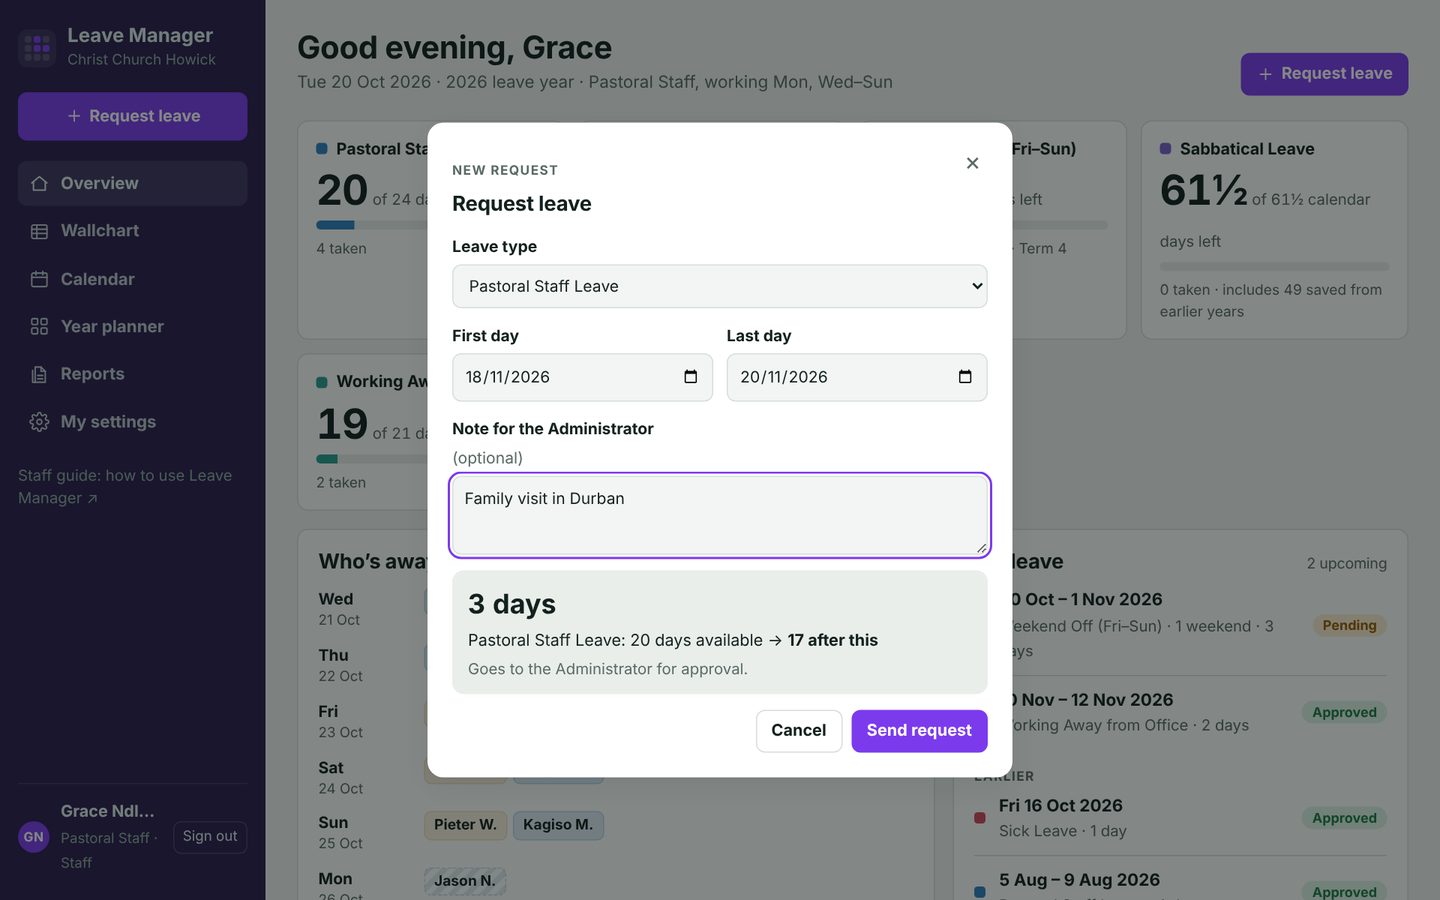
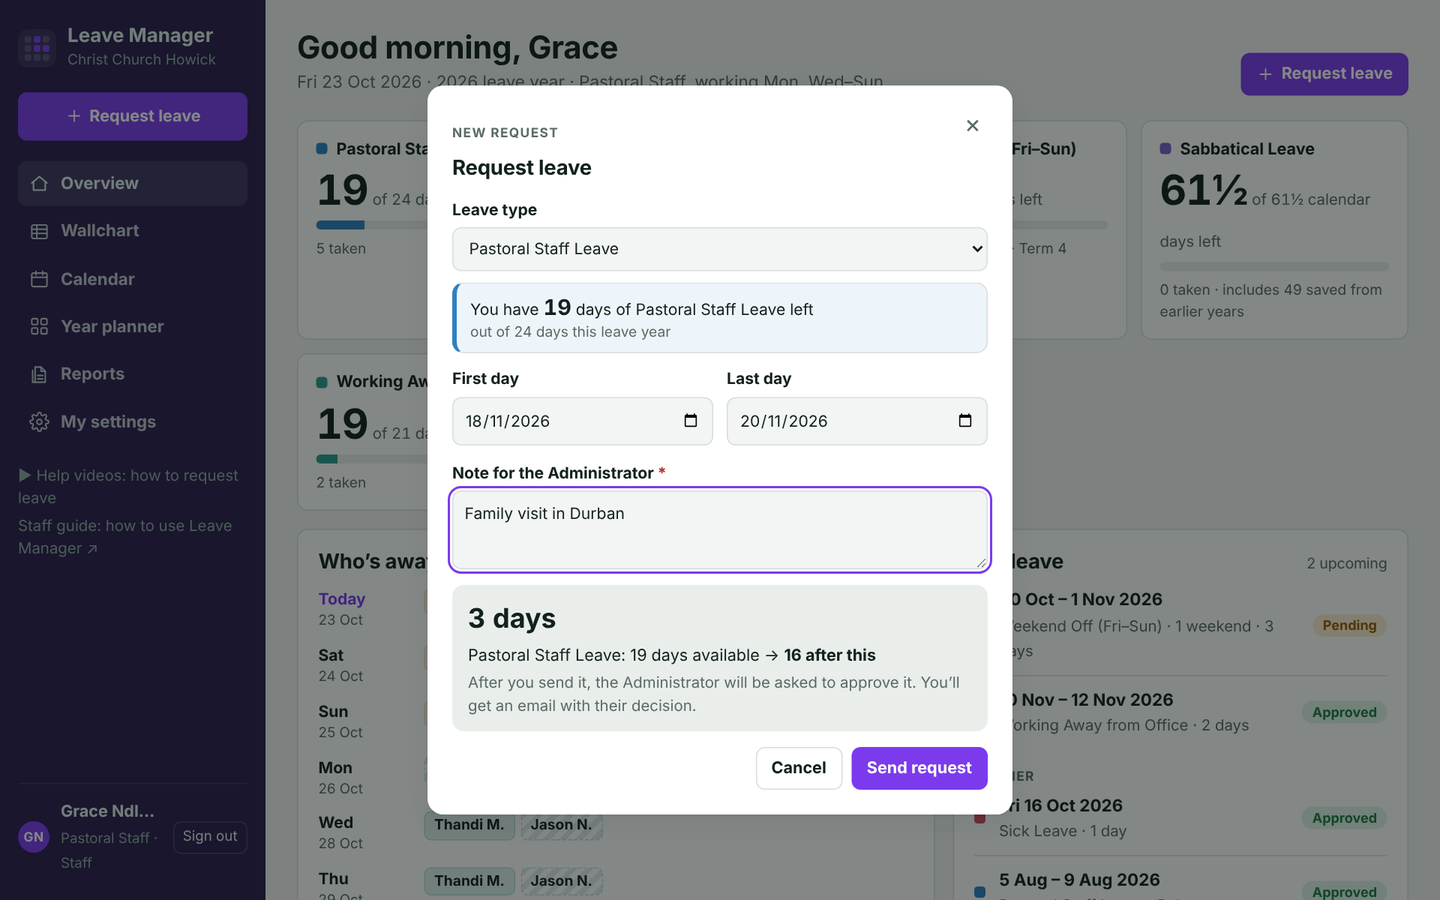
Guides brought up to date: new request-form and approval screenshots, help videos, Sunday holidays, over-allowance, deleting a declined request, help notes, install steps; README features and update notes
Claude-Session: https://claude.ai/code/session_018JEWCMupRvp2GXrZ5YMygf

diff --git a/ADMIN-GUIDE.md b/ADMIN-GUIDE.md
@@ -270,14 +270,20 @@ The **Employees** page also shows whether each person has chosen their own PIN y
 ## The Android app and Sign in with Google
 
 - **Android app link for staff:** <https://github.com/pian1966/leave-manager/releases/latest/download/LeaveManager.apk>. The app shows the live site, so updates appear without reinstalling. Occasionally a new app version adds phone features. The app checks for this itself and shows an **Update available** banner; installing over the old version keeps everyone signed in.
-- **iPhone:** Safari → Share → *Add to Home Screen*.
+  Easiest way to hand it out: send the link on WhatsApp or by email. When installing, staff may need to allow their browser or Files app to "install unknown apps", and tap **More details → Install anyway** if Google Play Protect warns them (the app isn't in the Play Store).
+- **iPhone:** open <https://pian1966.github.io/leave-manager/> in Safari → Share → *Add to Home Screen*.
+- **Help videos for staff:** short videos with a voiceover show how to request leave, one for a phone (Android or iPhone) and one for a computer. Staff find them under **▶ Help videos** in the left panel, or **My settings → Help** on a phone. You can also send the links: [phone](https://pian1966.github.io/leave-manager/docs/videos/request-leave-phone.mp4) · [computer](https://pian1966.github.io/leave-manager/docs/videos/request-leave-computer.mp4).
 - **Sign in with Google** works for anyone whose email on the Staff tab is a Google account. Everyone can still use email and PIN.
 
 ## Common questions
 
 | Question | Answer |
 | --- | --- |
-| Someone booked the wrong leave type | Cancel it and book the right type for them. |
+| Someone booked the wrong leave type or dates | Click the request and choose **Change**. As Administrator your change keeps its status, and the person is emailed. |
+| I want to remove a declined request completely | Leave Manager never deletes requests, so there's a record. To erase one, open the Google Sheet → **Requests** tab, find the row (check name, dates and *Declined*), right-click the row number → **Delete row**. Optionally search the **History** tab for its ID and delete those rows too. |
+| A public holiday falls on a Sunday | The Monday after is the public holiday (Public Holidays Act). For staff who work Sundays, that Sunday is a normal working day: leave on it uses a day, and the request form explains this to them. Everyone gets the Monday off. |
+| Someone wants more leave than they have | They can still send it. It's marked **⚠ over allowance** and always needs your approval (see *Approving leave*). |
+| A column on the Google Sheet is unclear | Hover over its heading: every heading has a note explaining it. If notes are missing, use **Leave Manager → Open control panel → Maintenance → Add help notes to headings**. |
 | A cover warning seems wrong | Check the rule's Category and Days on Cover Rules, and the staff member's category on Staff. |
 | The weekly email didn't arrive | Check it's switched on under **My settings → Automatic emails**, and use the Preview menu item to test. Emails go to staff with real email addresses only. |
 | A stand-in can't see Approvals | Check today is between the From and To dates on the Dashboard. |

diff --git a/README.md b/README.md
@@ -30,6 +30,11 @@ Open `web/index.html` in a browser before you set anything up: with no API URL c
 - **Approvals** – managers see pending requests with the balance after approval and who else is away. They get an email with a **Review request** button and can approve from their phone without signing in.
 - **Managers can book leave for their team** (auto-approved), and anyone can cancel their own future leave.
 - **Unpaid Leave** shows on the calendar without using an allowance.
+- **Request form shows what's left:** once a leave type is chosen, a box shows how much of it the person still has (plus pending days and last year's days still usable).
+- **Over-allowance requests** can still be sent, but are flagged **⚠ over allowance** for both the person and the Administrator, always need approval, and need a second click (**Approve anyway**) to approve.
+- **Public holidays on a Sunday:** the Monday is the holiday, so for staff who work Sundays that Sunday counts as a working day; the request form says so.
+- **Help videos:** short narrated videos (phone and computer) on how to request leave, in `docs/videos/` and linked from the app's left panel and My settings → Help.
+- **Help notes on the Google Sheet:** every column heading has a note explaining what goes in it.
 - **Google Form** for people who prefer it, with an email back if a request can't be booked (e.g. it overlaps other leave) or goes over the allowance.
 - **Holidays and school terms update themselves** every month. **Leave Manager → Update public holidays and school terms now** runs it on demand, and **LastCalendarUpdate** in Settings shows what it last did.
 - **Google Calendar mirror** (optional) – approved leave appears in a shared calendar.
@@ -135,7 +140,8 @@ Send everyone the GitHub Pages link and their PIN. Share the Google Form link (S
 ## Updating the code later
 
 - **Apps Script:** paste the new code, then **Deploy → Manage deployments → ✏ Edit → Version: New version → Deploy**. The URL stays the same.
-- **Web app:** commit the changed files to GitHub. Keep `apps-script/Core.gs` and `web/assets/core.js` identical; they contain the shared balance rules.
+- **Web app:** commit the changed files to GitHub; GitHub Pages publishes them within a minute or two. The **Deploy Google Apps Script** workflow copies `assets/core.js` to `apps-script/Core.gs` and deploys the script automatically, so the shared balance rules stay identical.
+- **Android app:** pushing changes under `android/` builds and publishes a new release; staff see **Update available** in the app.
 
 ## Troubleshooting
 

diff --git a/STAFF-GUIDE.md b/STAFF-GUIDE.md
@@ -195,9 +195,11 @@ Appearance and Start page are remembered on the device you set them on, so you c
 - If your phone asks, allow Chrome (or your browser) to install apps.
 - If Play Protect says it doesn't recognise the app, tap **More details → Install anyway**. It's our own church app, so it isn't in the Play Store.
 
-Then open **Leave Manager** from your apps and sign in with your email and PIN. To get the latest leave (for example after the Administrator approves something), tap **⟳** at the top, or pull the page down from the top. The app also refreshes by itself when you come back to it after a few minutes. When a newer version of the app is available, a banner at the top says **Update available**: tap **Update**, open the downloaded file and tap **Update**. You can also check yourself under **My settings → Android app → Check for updates**. The back button closes windows and takes you back to Overview. You can print reports from the app too.
+Then open **Leave Manager** from your apps (the orange icon) and sign in with Google, or with your email and PIN. To get the latest leave (for example after the Administrator approves something), tap **⟳** at the top, or pull the page down from the top. The app also refreshes by itself when you come back to it after a few minutes. When a newer version of the app is available, a banner at the top says **Update available**: tap **Update**, open the downloaded file and tap **Update**. You can also check yourself under **My settings → Android app → Check for updates**. The back button closes windows and takes you back to Overview. You can print reports from the app too.
 
-**iPhone:** open Leave Manager in Safari, tap the **Share** button, then **Add to Home Screen**.
+**iPhone:** open https://pian1966.github.io/leave-manager/ in Safari, tap the **Share** button, then **Add to Home Screen**. Leave Manager then opens from your home screen like an app.
+
+The **▶ Help videos** under **My settings → Help** include a short video showing how to request leave on a phone.
 
 ## Common questions
 
